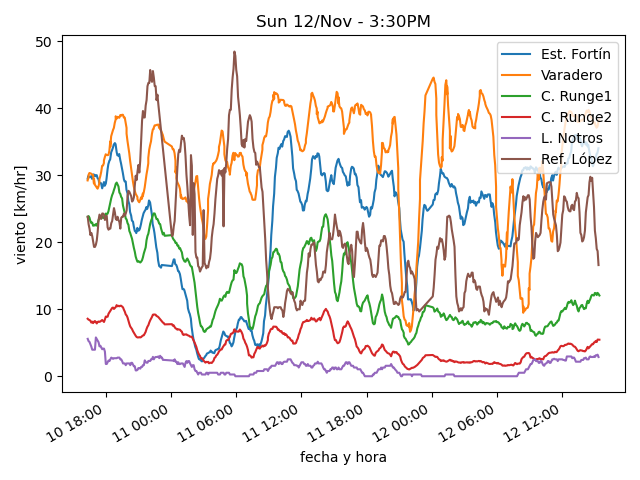
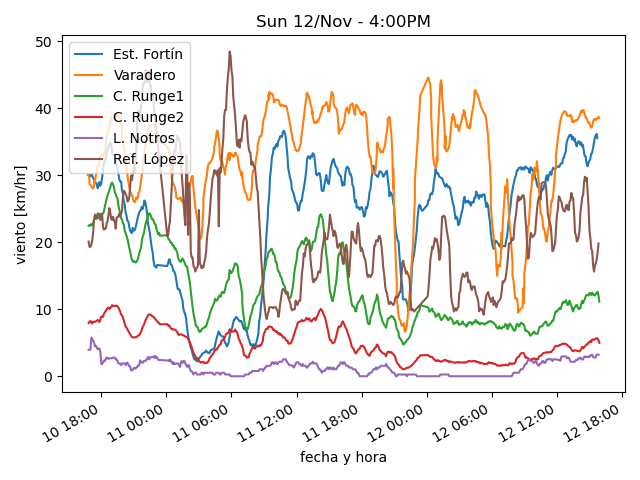
actualiza datos

diff --git a/estaciones/estacion6.html b/estaciones/estacion6.html
@@ -18,37 +18,37 @@
     </tr>
     <tr>
      <td class="stats_data">
-      3:20PM
+      3:50PM
      </td>
     </tr>
     <tr>
      <td class="stats_data">
-      -0.7⁰C
+      -1.7⁰C
      </td>
     </tr>
     <tr>
      <td class="stats_data">
-      -2.7⁰C
+      -4.7⁰C
      </td>
     </tr>
     <tr>
      <td class="stats_data">
-      86.0%
+      80.0%
      </td>
     </tr>
     <tr>
      <td class="stats_data">
-      1023.77hPa
+      1023.71hPa
      </td>
     </tr>
     <tr>
      <td class="stats_data">
-      4.8/12.9 km/hr ENE
+      17.7/30.6 km/hr SSE
      </td>
     </tr>
     <tr>
      <td class="stats_data">
-      1.78 / 0.25 mm
+      2.03 / 0.51 mm
      </td>
     </tr>
     <tr>
@@ -58,7 +58,7 @@
     </tr>
     <tr>
      <td class="stats_data">
-      912.0 W/m²
+      891.0 W/m²
      </td>
     </tr>
    </tbody>

diff --git a/estaciones/estacion2.html b/estaciones/estacion2.html
@@ -18,32 +18,32 @@
     </tr>
     <tr>
      <td class="stats_data">
-      3:24PM
+      3:54PM
      </td>
     </tr>
     <tr>
      <td class="stats_data">
-      6.7⁰C
+      6.8⁰C
      </td>
     </tr>
     <tr>
      <td class="stats_data">
-      1.4⁰C
+      1.2⁰C
      </td>
     </tr>
     <tr>
      <td class="stats_data">
-      68.6%
+      68.0%
      </td>
     </tr>
     <tr>
      <td class="stats_data">
-      1023.54hPa
+      1023.43hPa
      </td>
     </tr>
     <tr>
      <td class="stats_data">
-      32.9/38.6 km/hr NW
+      32.1/37.4 km/hr NW
      </td>
     </tr>
     <tr>
@@ -53,12 +53,12 @@
     </tr>
     <tr>
      <td class="stats_data">
-      10.0
+      9.0
      </td>
     </tr>
     <tr>
      <td class="stats_data">
-      1050.3 W/m²
+      1001.2 W/m²
      </td>
     </tr>
    </tbody>

diff --git a/estaciones/estacion1.html b/estaciones/estacion1.html
@@ -18,32 +18,32 @@
     </tr>
     <tr>
      <td class="stats_data">
-      3:19PM
+      3:43PM
      </td>
     </tr>
     <tr>
      <td class="stats_data">
-      7.8⁰C
+      8.3⁰C
      </td>
     </tr>
     <tr>
      <td class="stats_data">
-      -2.6⁰C
+      -1.9⁰C
      </td>
     </tr>
     <tr>
      <td class="stats_data">
-      47.7%
+      48.5%
      </td>
     </tr>
     <tr>
      <td class="stats_data">
-      1019.64hPa
+      1019.3hPa
      </td>
     </tr>
     <tr>
      <td class="stats_data">
-      15.6/32.7 km/hr WSW
+      25.0/32.2 km/hr W
      </td>
     </tr>
     <tr>
@@ -53,12 +53,12 @@
     </tr>
     <tr>
      <td class="stats_data">
-      5.1
+      4.5
      </td>
     </tr>
     <tr>
      <td class="stats_data">
-      886.0 W/m²
+      819.0 W/m²
      </td>
     </tr>
    </tbody>

diff --git a/estaciones/estacion3.html b/estaciones/estacion3.html
@@ -18,32 +18,32 @@
     </tr>
     <tr>
      <td class="stats_data">
-      3:24PM
+      3:54PM
      </td>
     </tr>
     <tr>
      <td class="stats_data">
-      5.8⁰C
+      6.3⁰C
      </td>
     </tr>
     <tr>
      <td class="stats_data">
-      -0.6⁰C
+      -0.5⁰C
      </td>
     </tr>
     <tr>
      <td class="stats_data">
-      63.5%
+      62.0%
      </td>
     </tr>
     <tr>
      <td class="stats_data">
-      1008.23hPa
+      1008.43hPa
      </td>
     </tr>
     <tr>
      <td class="stats_data">
-      7.3/10.0 km/hr W
+      5.5/8.2 km/hr WNW
      </td>
     </tr>
     <tr>
@@ -53,12 +53,12 @@
     </tr>
     <tr>
      <td class="stats_data">
-      2.0
+      3.0
      </td>
     </tr>
     <tr>
      <td class="stats_data">
-      252.4 W/m²
+      293.6 W/m²
      </td>
     </tr>
    </tbody>

diff --git a/estaciones/estacion4.html b/estaciones/estacion4.html
@@ -18,32 +18,32 @@
     </tr>
     <tr>
      <td class="stats_data">
-      3:24PM
+      3:54PM
      </td>
     </tr>
     <tr>
      <td class="stats_data">
-      6.1⁰C
+      6.5⁰C
      </td>
     </tr>
     <tr>
      <td class="stats_data">
-      -1.2⁰C
+      -1.0⁰C
      </td>
     </tr>
     <tr>
      <td class="stats_data">
-      59.6%
+      58.5%
      </td>
     </tr>
     <tr>
      <td class="stats_data">
-      1017.03hPa
+      1017.34hPa
      </td>
     </tr>
     <tr>
      <td class="stats_data">
-      2.8/4.3 km/hr SSW
+      2.7/4.0 km/hr SSW
      </td>
     </tr>
     <tr>
@@ -58,7 +58,7 @@
     </tr>
     <tr>
      <td class="stats_data">
-      243.1 W/m²
+      284.6 W/m²
      </td>
     </tr>
    </tbody>

diff --git a/estaciones/estacion5.html b/estaciones/estacion5.html
@@ -18,27 +18,27 @@
     </tr>
     <tr>
      <td class="stats_data">
-      3:20PM
+      3:50PM
      </td>
     </tr>
     <tr>
      <td class="stats_data">
-      8.9⁰C
+      8.4⁰C
      </td>
     </tr>
     <tr>
      <td class="stats_data">
-      1.3⁰C
+      0.5⁰C
      </td>
     </tr>
     <tr>
      <td class="stats_data">
-      59.0%
+      58.0%
      </td>
     </tr>
     <tr>
      <td class="stats_data">
-      1019.74hPa
+      1019.91hPa
      </td>
     </tr>
     <tr>
